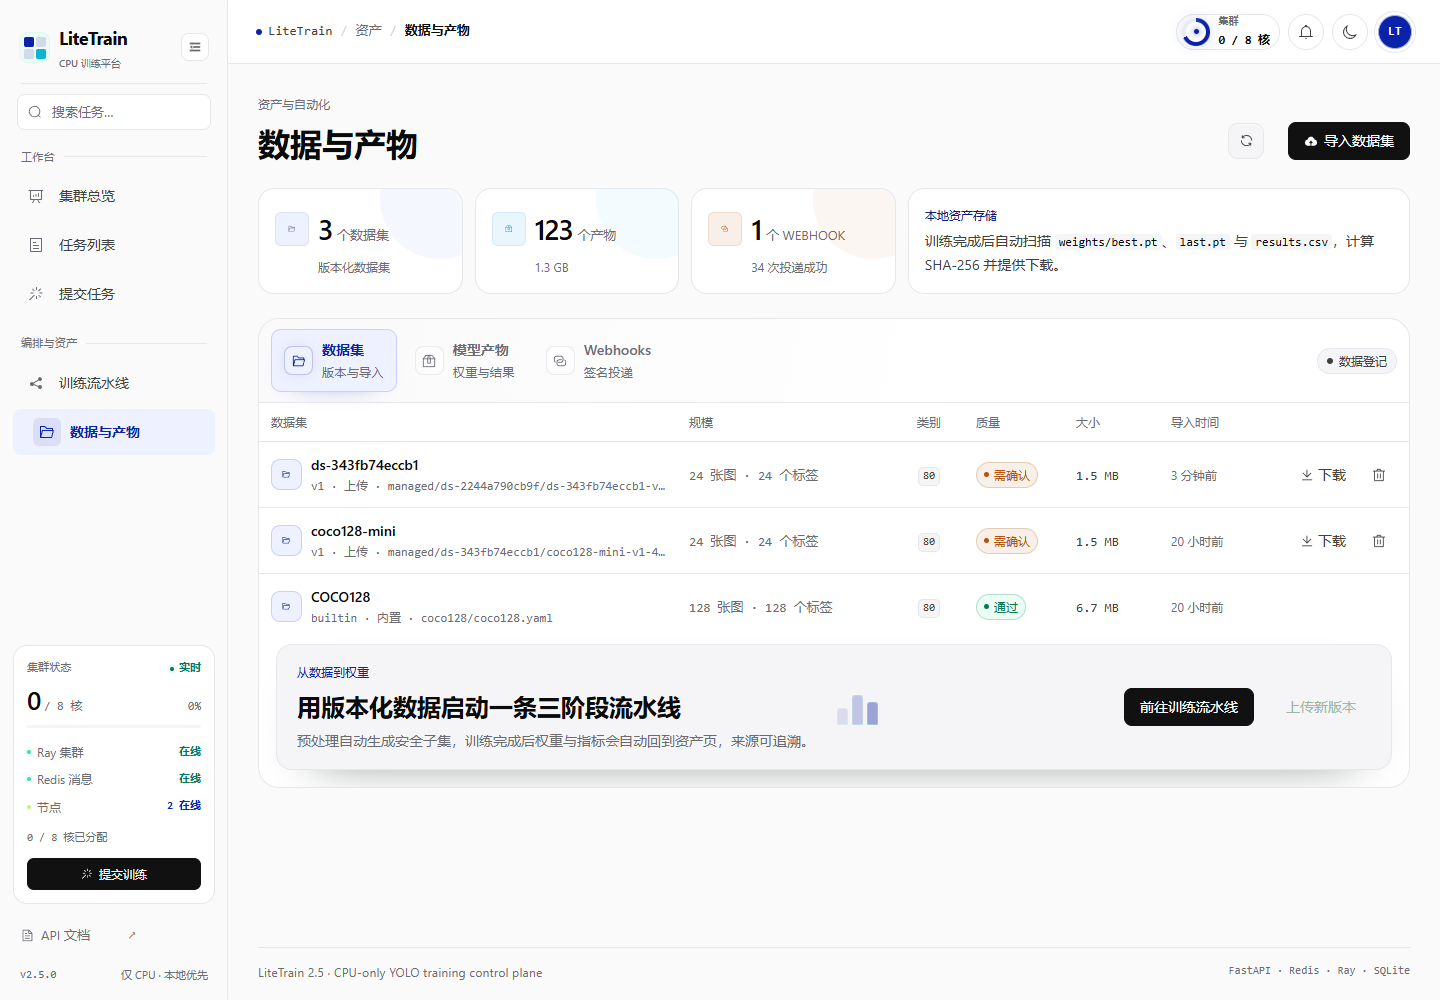
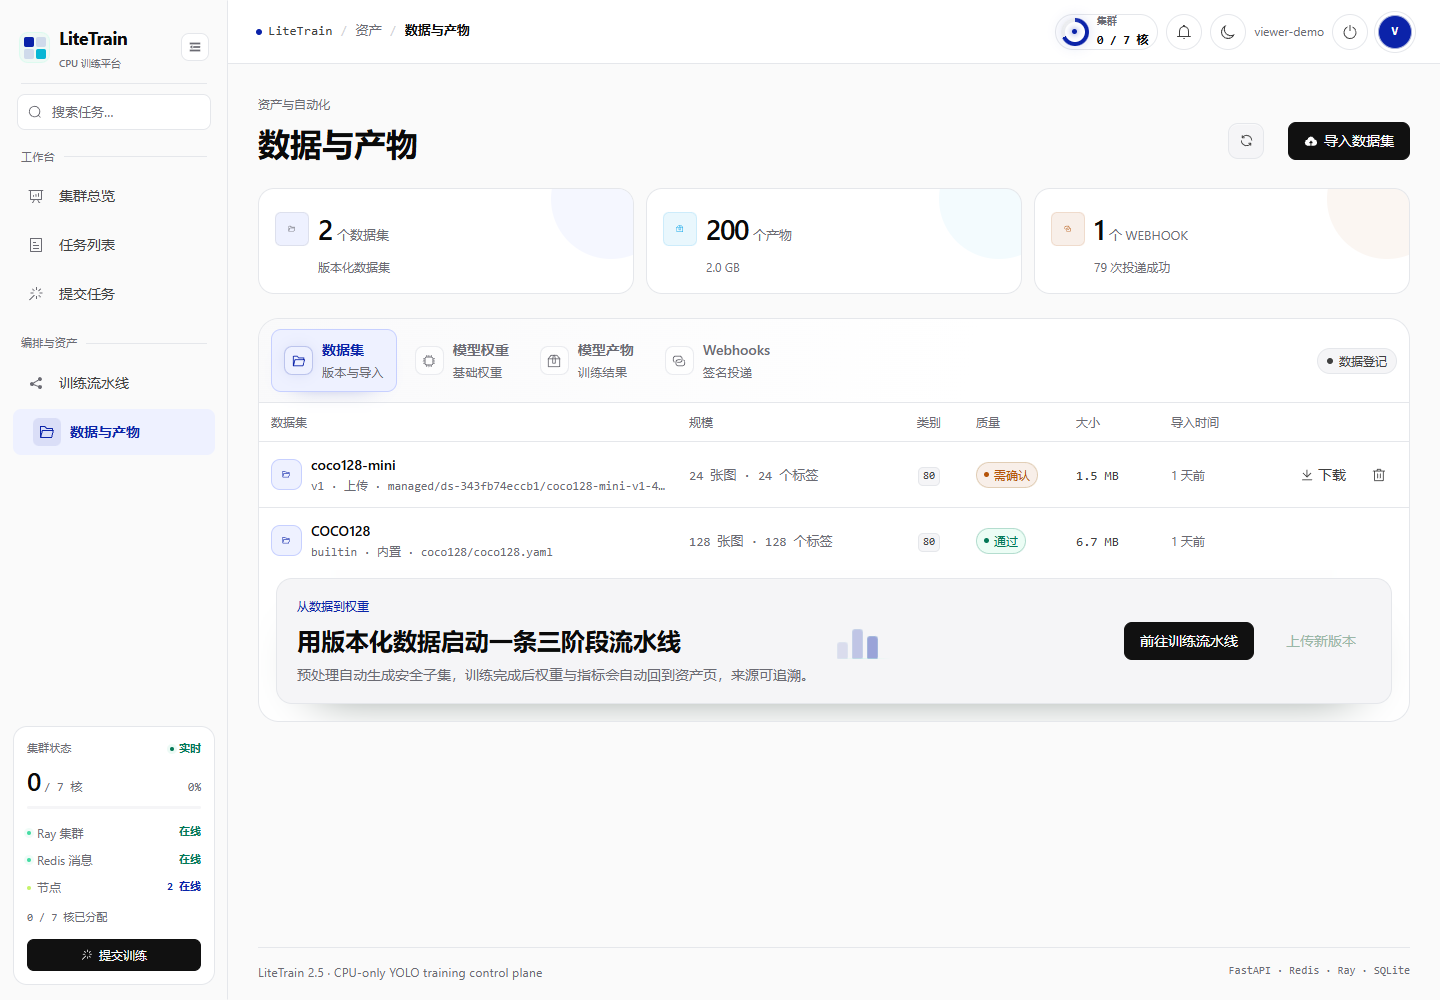
style(assets): remove local storage note

diff --git a/frontend/src/views/AssetsView.vue b/frontend/src/views/AssetsView.vue
@@ -602,10 +602,6 @@ onBeforeUnmount(() => {
         <div><strong>{{ activeWebhooks }}</strong><span>个 Webhook</span></div>
         <small>{{ successfulDeliveries }} 次投递成功</small>
       </div>
-      <div class="asset-note">
-        <span class="soft-label">本地资产存储</span>
-        <p>训练完成后自动扫描 <code>weights/best.pt</code>、<code>last.pt</code> 与 <code>results.csv</code>，计算 SHA-256 并提供下载。</p>
-      </div>
     </section>
 
     <section class="panel assets-panel">
@@ -3048,9 +3044,17 @@ html.dark .asset-tab.active strong {
   margin: 0;
 }
 
+.asset-summary {
+  grid-template-columns: repeat(3, minmax(0, 1fr));
+}
+
 @media (max-width: 760px) {
   .model-toolbar {
     flex-direction: column;
+  }
+
+  .asset-summary {
+    grid-template-columns: minmax(0, 1fr);
   }
 }
 </style>
